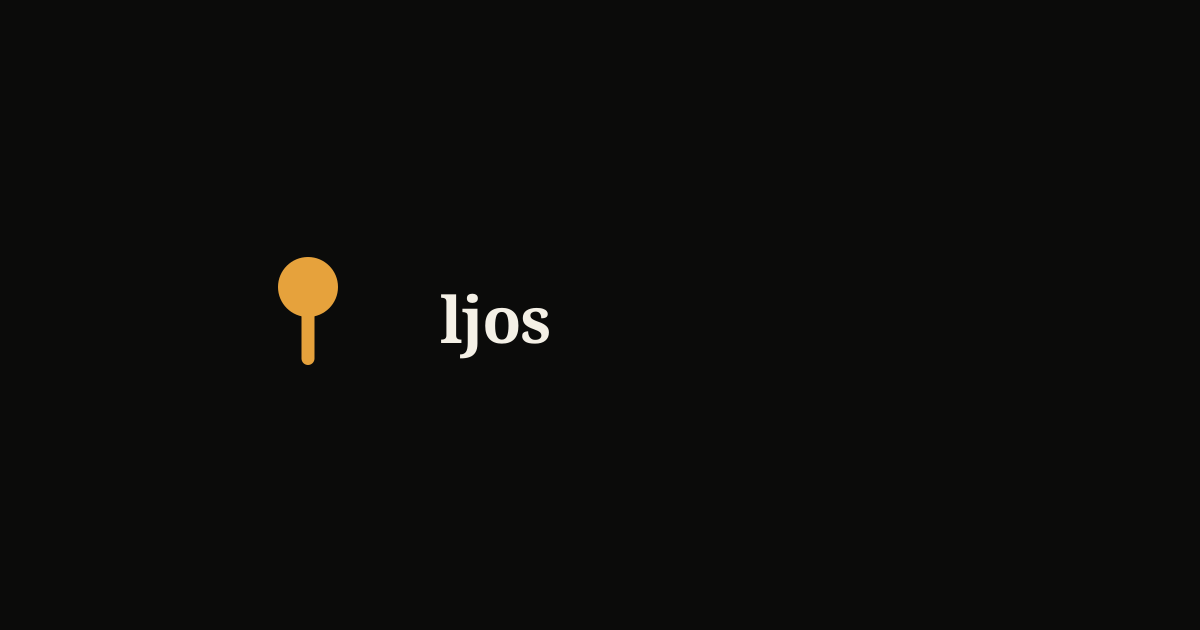
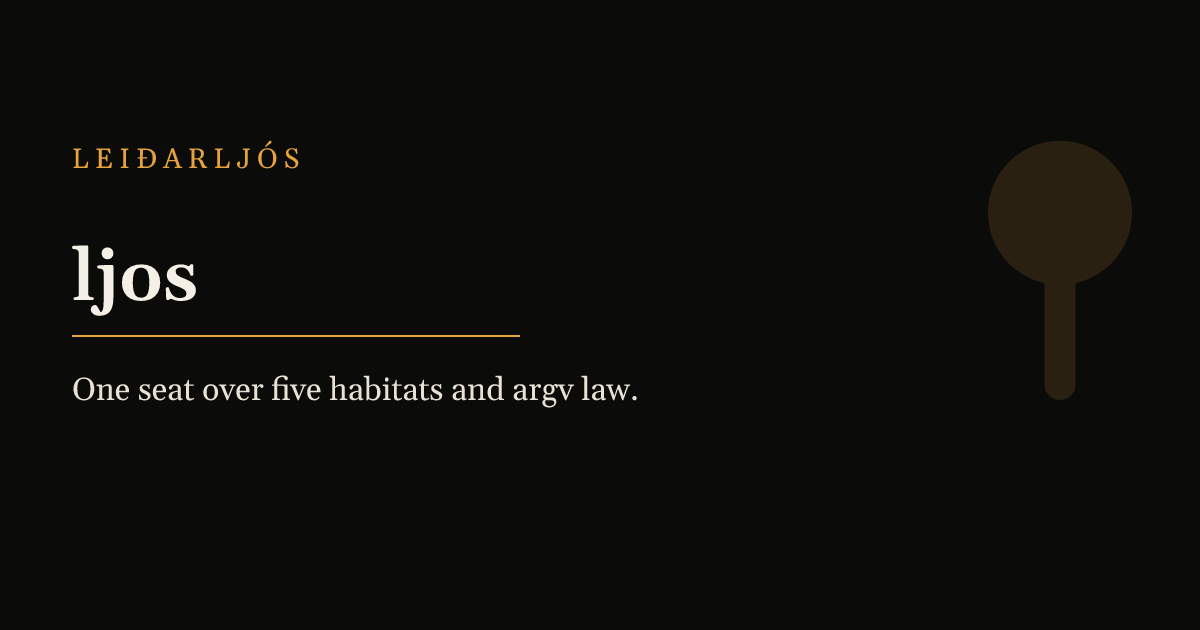
docs: match the preview card to the org site
The card uses the org layout, with the crate name as the headline.
The subline is the index description, cut after the first sentence.

diff --git a/docs/source/conf.py b/docs/source/conf.py
@@ -33,7 +33,7 @@ html_baseurl = "https://leidarljos.github.io/ljos/"
 html_copy_source = True
 html_css_files = ["custom.css"]
 
-# Preview card. docs/scripts/og_image.py paints this from the repo logo.
+# Preview card. .github/render-og-png.sh paints docs/source/_static/og.svg.
 _OG_IMAGE = "https://leidarljos.github.io/ljos/_static/og.png"
 _PAGE_DESCRIPTION = {
     "search": "Search the ljos documentation.",
